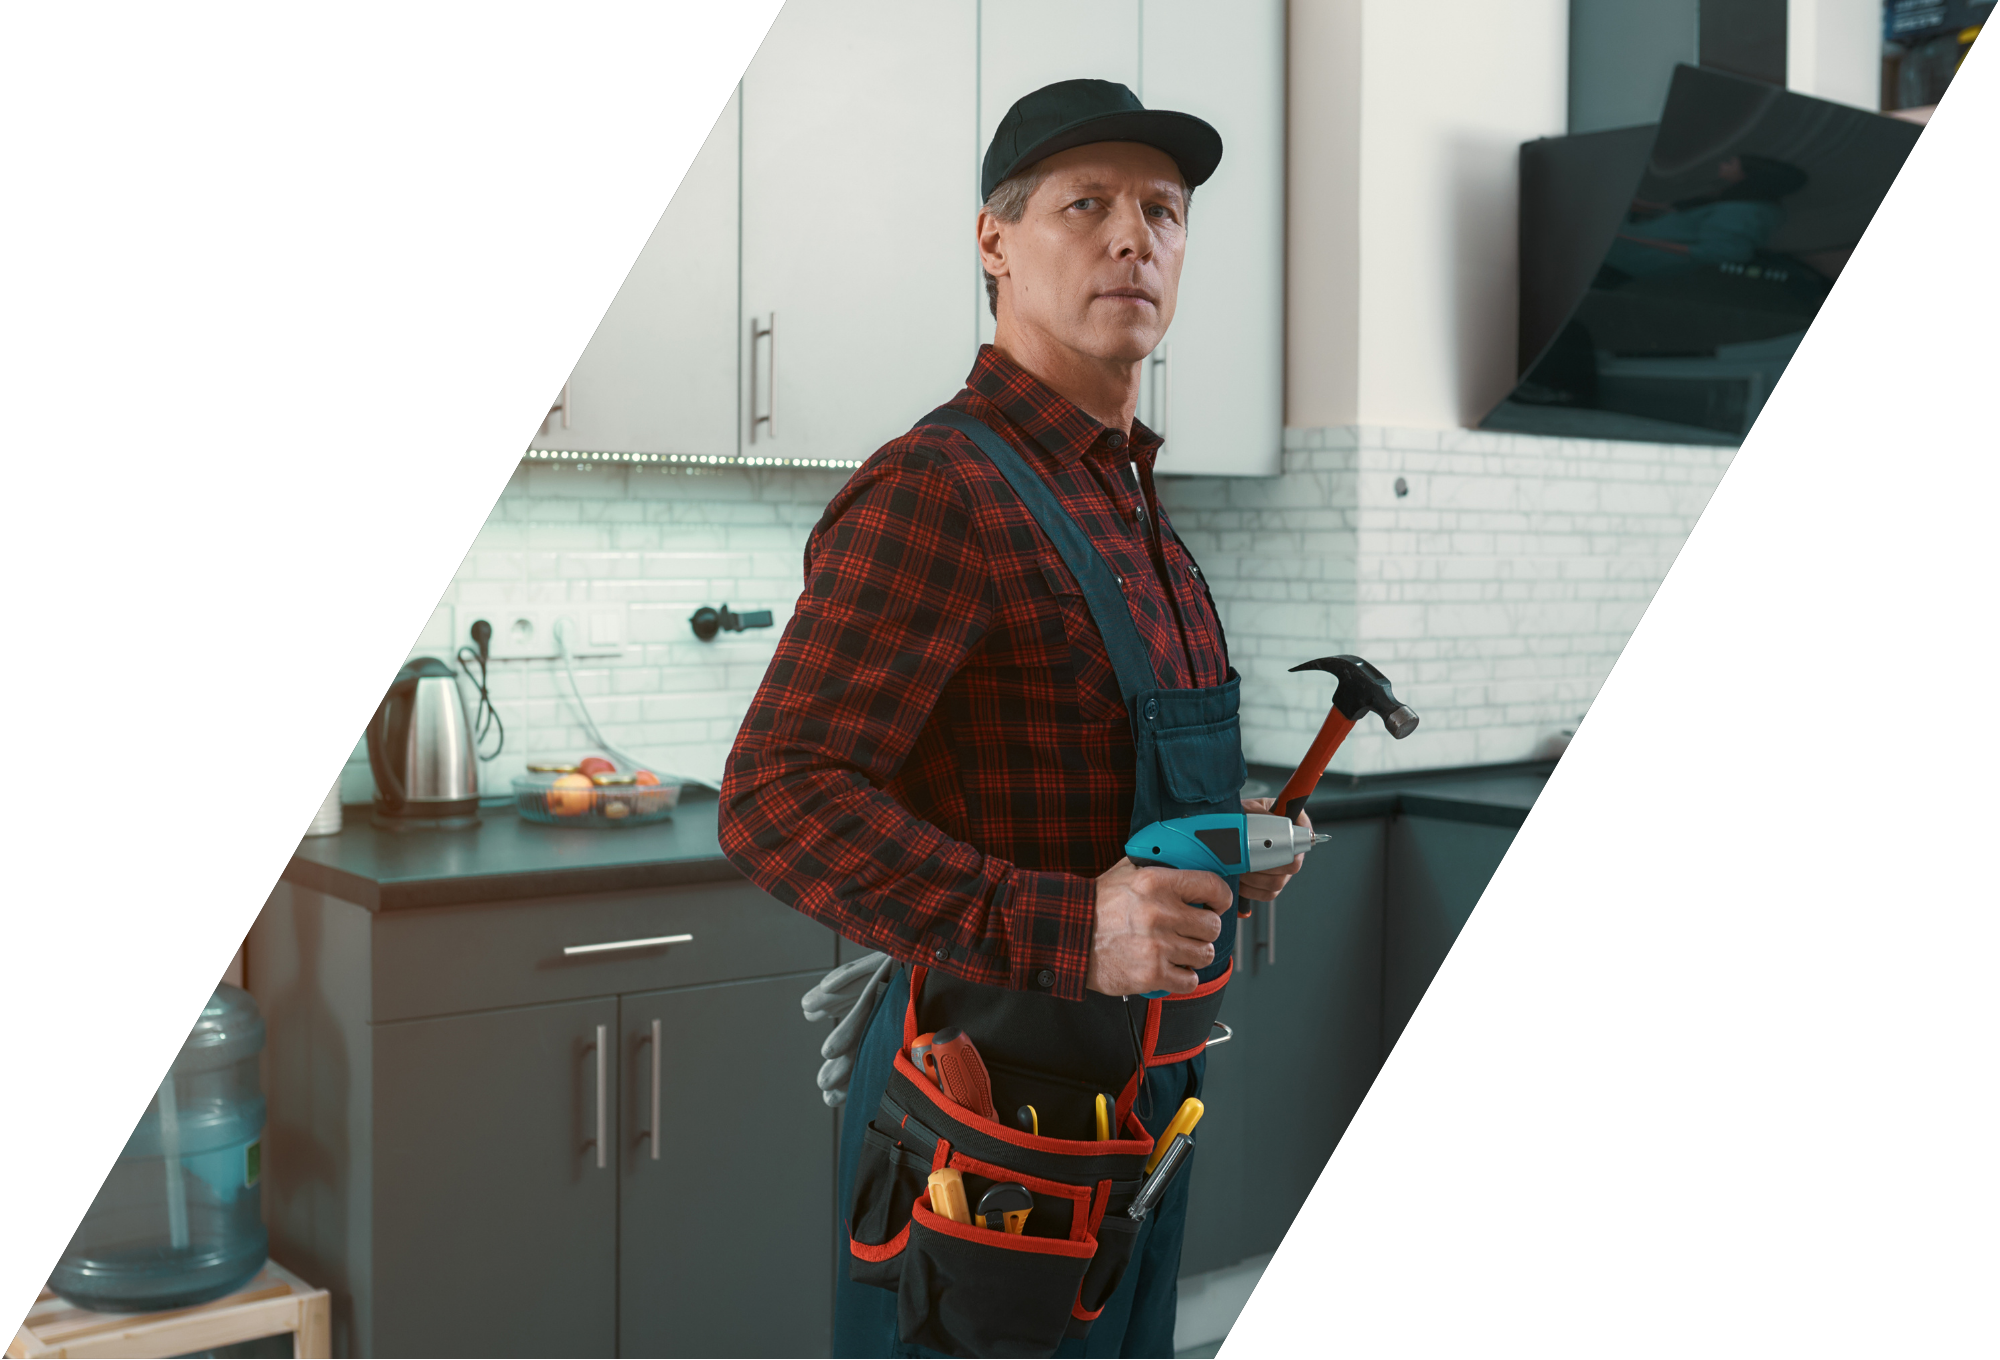
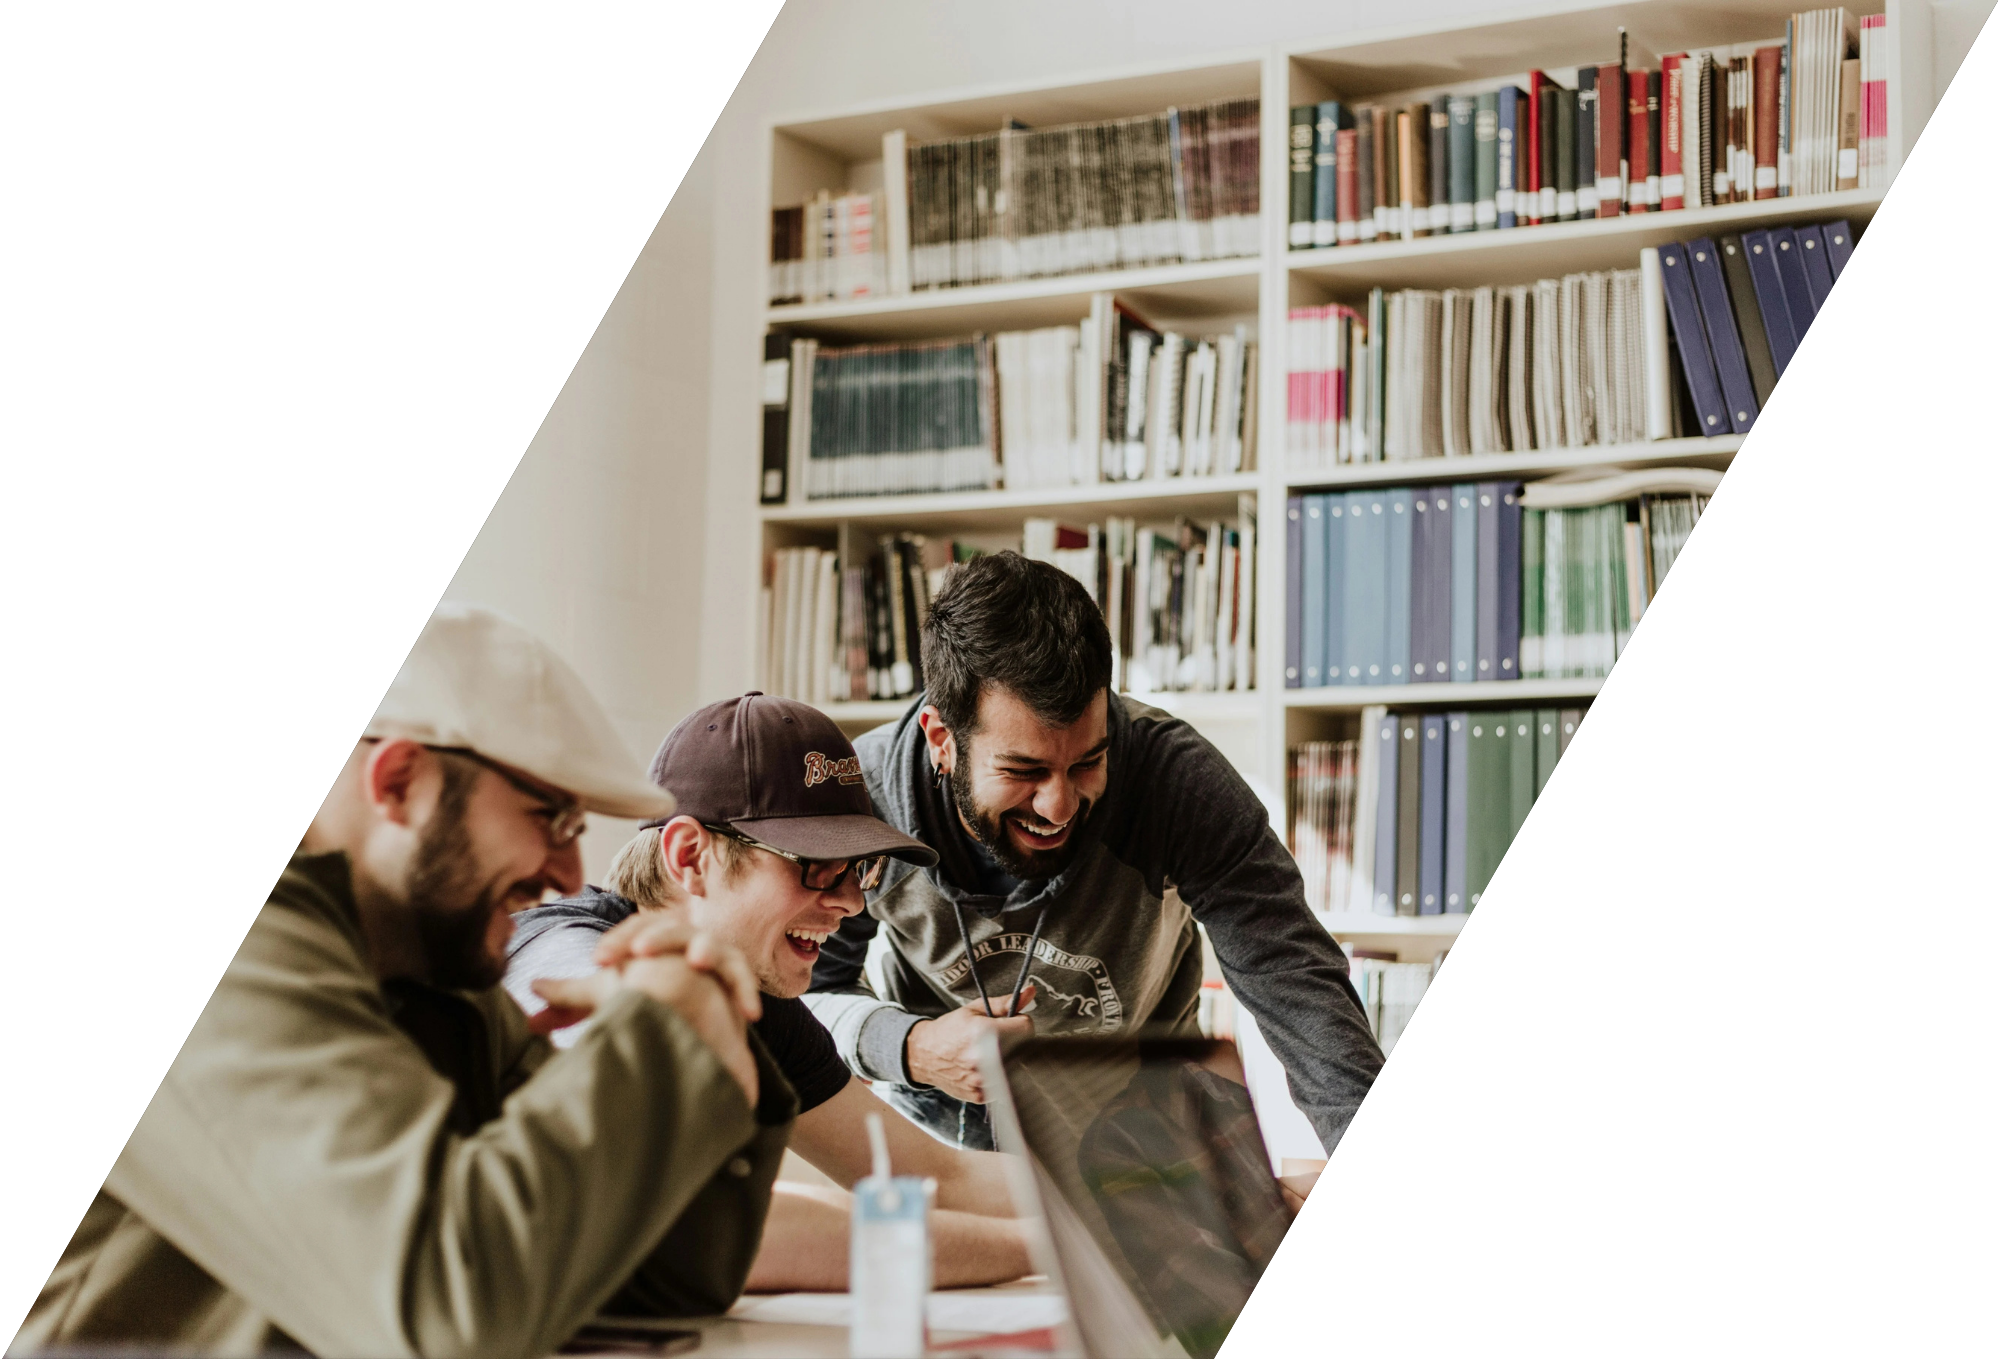
fix(home): Adjust total width of hero images

diff --git a/client/src/app/features/home/home.html b/client/src/app/features/home/home.html
@@ -1,6 +1,6 @@
 <app-home-navbar/>
 
-<main class="relative container mx-auto font-poppins">
+<main class="relative mx-auto font-poppins max-w-[2200px]">
 
     <!-- mobile hero section -->
     @if (isMobile()) {
@@ -12,18 +12,16 @@
         </div>
         </section>
     } @else {
-        <section class="relative h-[30vw] overflow-hidden flex gap-x-5 justify-center items-center bg-[url('/images/WebP/home_background_call_to_action.webp')] bg-cover bg-no-repeat bg-center">
+        <section class="relative h-[30vw] w-full 2xl:max-w left-1/2 -translate-x-1/2 overflow-hidden flex gap-x-5 justify-center items-center bg-[url('/images/WebP/home_background_call_to_action.webp')] bg-cover bg-no-repeat bg-center">
             <div class="absolute inset-0 bg-black/80"></div>
 
-            <div class="absolute inset-y-0 z-3 left-0 w-10 pointer-events-none bg-gradient-to-r from-bg-white to-transparent"></div>
-
-            <div class="absolute inset-y-0 z-3 right-0 w-10 pointer-events-none bg-gradient-to-l from-bg-white to-transparent"></div>
-
-            <div class="relative z-2 flex flex-col items-center">
-                <h1 class="text-5xl text-center mb-11 text-white w-[125%] mr-[-35%] px-20">Conectamos personas con oportunidades</h1>
-                <button class="bg-bg-white py-2 px-4 rounded-3xl mr-[-35%] text-lg">Conviertete en un Jobbie</button>
+            <div class="container mx-auto relative z-10 h-full flex items-center justify-between gap-x-5">
+                <div class="relative z-2 flex flex-col items-center">
+                    <h1 class="text-4xl xl:text-5xl 2xl:text-6xl text-center mb-11 text-white w-[125%] mr-[-15%] px-10 xl:px-20">Conectamos personas con oportunidades</h1>
+                    <button class="bg-bg-white py-2 px-6 rounded-3xl mr-[-15%] text-lg">Conviertete en un Jobbie</button>
+                </div>
+                <img class="relative z-3 h-full object-cover" src="images/WebP/hero_bg.png" alt="Imagen de portada">
             </div>
-            <img class="relative z-3 h-full object-cover" src="/images/WebP/hero_bg.png" alt="Imagen de portada">
         </section>
     }
 
@@ -34,23 +32,17 @@
         <p class="text-center">que conecta a personas con tareas especificas de forma rapida, flexible y sin complicaciones.</p>
     </section>
 
-    <section class="relative">
-        <div class="hidden lg:block absolute inset-y-0 z-3 left-0 w-10 pointer-events-none bg-gradient-to-r from-bg-white to-transparent"></div>
-        <div class="hidden lg:block absolute inset-y-0 z-3 right-0 w-10 pointer-events-none bg-gradient-to-l from-bg-white to-transparent"></div>
-
+    <section class="relative w-full left-1/2 -translate-x-1/2">
         <h3 class="text-main-yelllow bg-black p-4 text-center font-semibold">¡Gana dinero en tu tiempo libre y encuentra oportunidades cerca de ti!</h3>
     </section>
 
-    <section class="relative">
+    <section class="relative w-full left-1/2 -translate-x-1/2">
 
-        <div class="hidden lg:block absolute inset-y-0 z-3 left-0 w-10 pointer-events-none bg-gradient-to-r from-bg-white to-transparent"></div>
-        <div class="hidden lg:block absolute inset-y-0 z-3 right-0 w-10 pointer-events-none bg-gradient-to-l from-bg-white to-transparent"></div>
-
-        <div class="absolute inset-0 bg-black/50"></div>
+        <div class="absolute inset-0 bg-black/40"></div>
         <img 
             [src]="isMobile() ? '/images/WebP/home_below_jobby_information.webp' : '/images/WebP/home_collage_horizontal2.webp'" 
             alt="imagen informativa de fondo"
-            class="w-full h-64 md:h-80 lg:h-[40vh] object-cover object-center"
+            class="w-full h-[40vh] object-cover object-center"
         >
     </section>
 
@@ -58,7 +50,7 @@
 
     <app-home-collage/>
 
-    <button class="fixed bottom-10 right-8 w-[5rem] h-[5rem] lg:w-20 lg:h-20 flex items-center justify-center lg:right-[calc((100vw-1024px)/2+1rem)] xl:right-[calc((100vw-1280px)/2+1rem)] 2xl:right-[calc((100vw-1536px)/2+1rem)] z-30 bg-main-yelllow p-2 rounded-full border-[1px] border-black">
+    <button class="fixed bottom-10 right-8 w-[4.5rem] h-[4.5rem] lg:w-20 lg:h-20 flex items-center justify-center lg:right-[calc((100vw-1024px)/2+1rem)] xl:right-[calc((100vw-1280px)/2+1rem)] 2xl:right-[calc((100vw-1536px)/2+1rem)] z-30 bg-main-yelllow p-2 rounded-full border-[1px] border-black">
         <img class="w-10 h-10" src="/icons/help_icon.svg" alt="Boton de ayuda" />
     </button>
 

diff --git a/client/src/app/shared/home-footer/home-footer.html b/client/src/app/shared/home-footer/home-footer.html
@@ -1,7 +1,7 @@
 <footer class="bg-black text-white py-10 px-4 text-center space-y-8">
   <!-- Logo -->
-  <div class="h-10 y sm:h12">
-    <img src="/images/LOGO/png_sin_fondo/fondo_negro.png" alt="Jobby Logo" class="mx-auto h-12  " />
+  <div>
+    <img src="/images/LOGO/png_sin_fondo/fondo_negro.png" alt="Jobby Logo" class="mx-auto h-9 md:h-12" />
   </div>
 
   <!-- Iconos redes sociales -->
@@ -13,14 +13,14 @@
   </div>
 
   <!-- Enlaces -->
-  <div class="flex flex-col md:flex-row justify-center items-center gap-6 text-sm underline">
+  <div class="flex flex-col md:flex-row justify-center items-center gap-6 text-sm underline font-poppins">
     <a href="#">¿Quiénes somos?</a>
     <a href="#">Contáctanos</a>
     <a href="#">Términos y Condiciones</a>
   </div>
 
   <!-- Copyright -->
-  <div class="text-xs">
+  <div class="text-xs font-poppins">
     <p>Copyright © ADSO - 2025 &nbsp; Jobby</p>
   </div>
 </footer>
